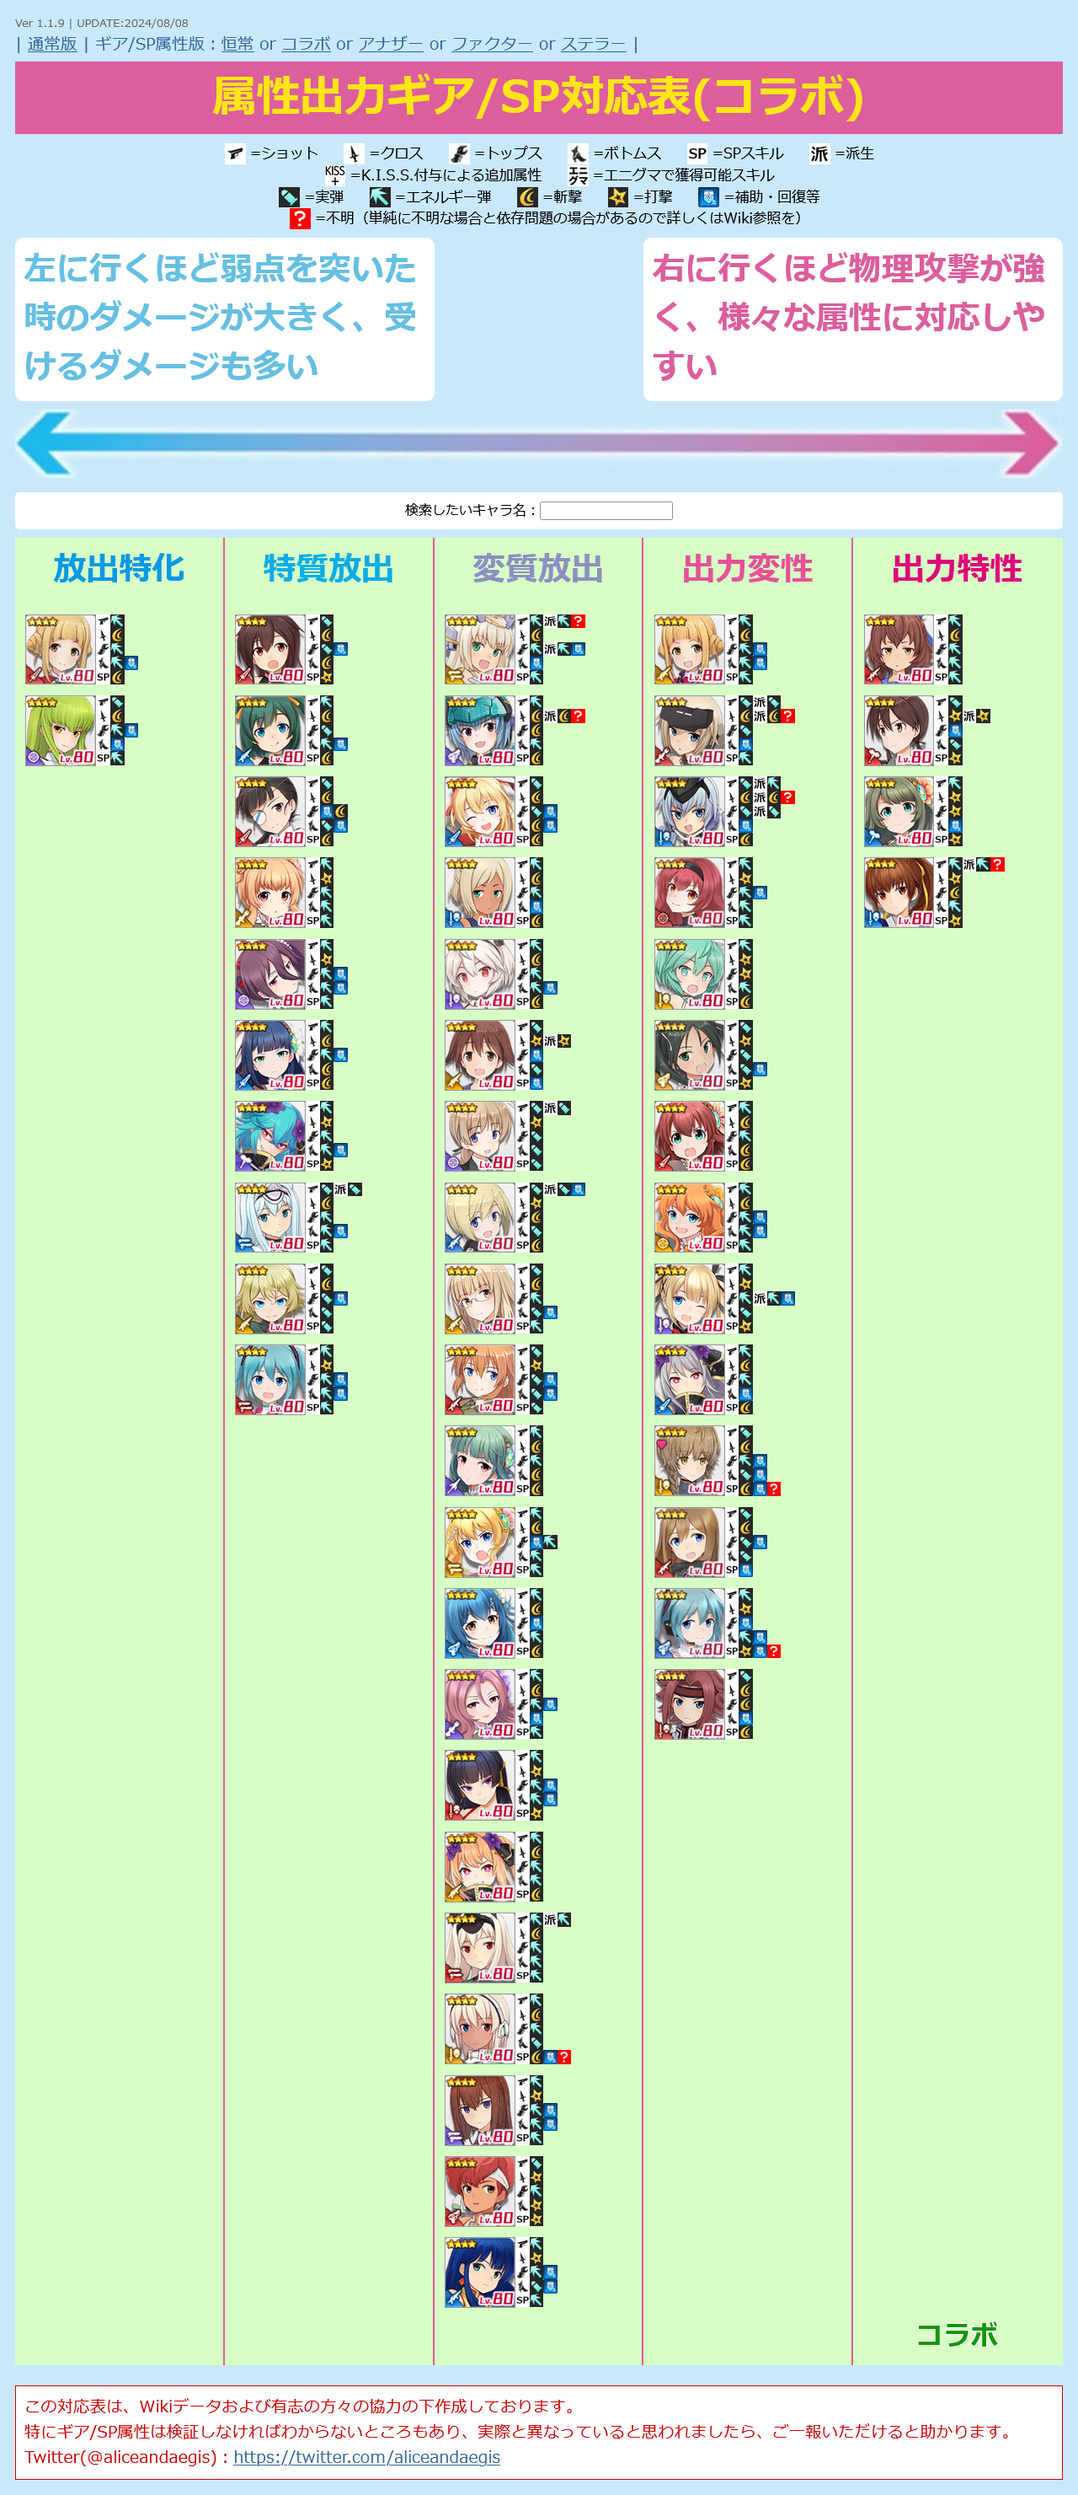
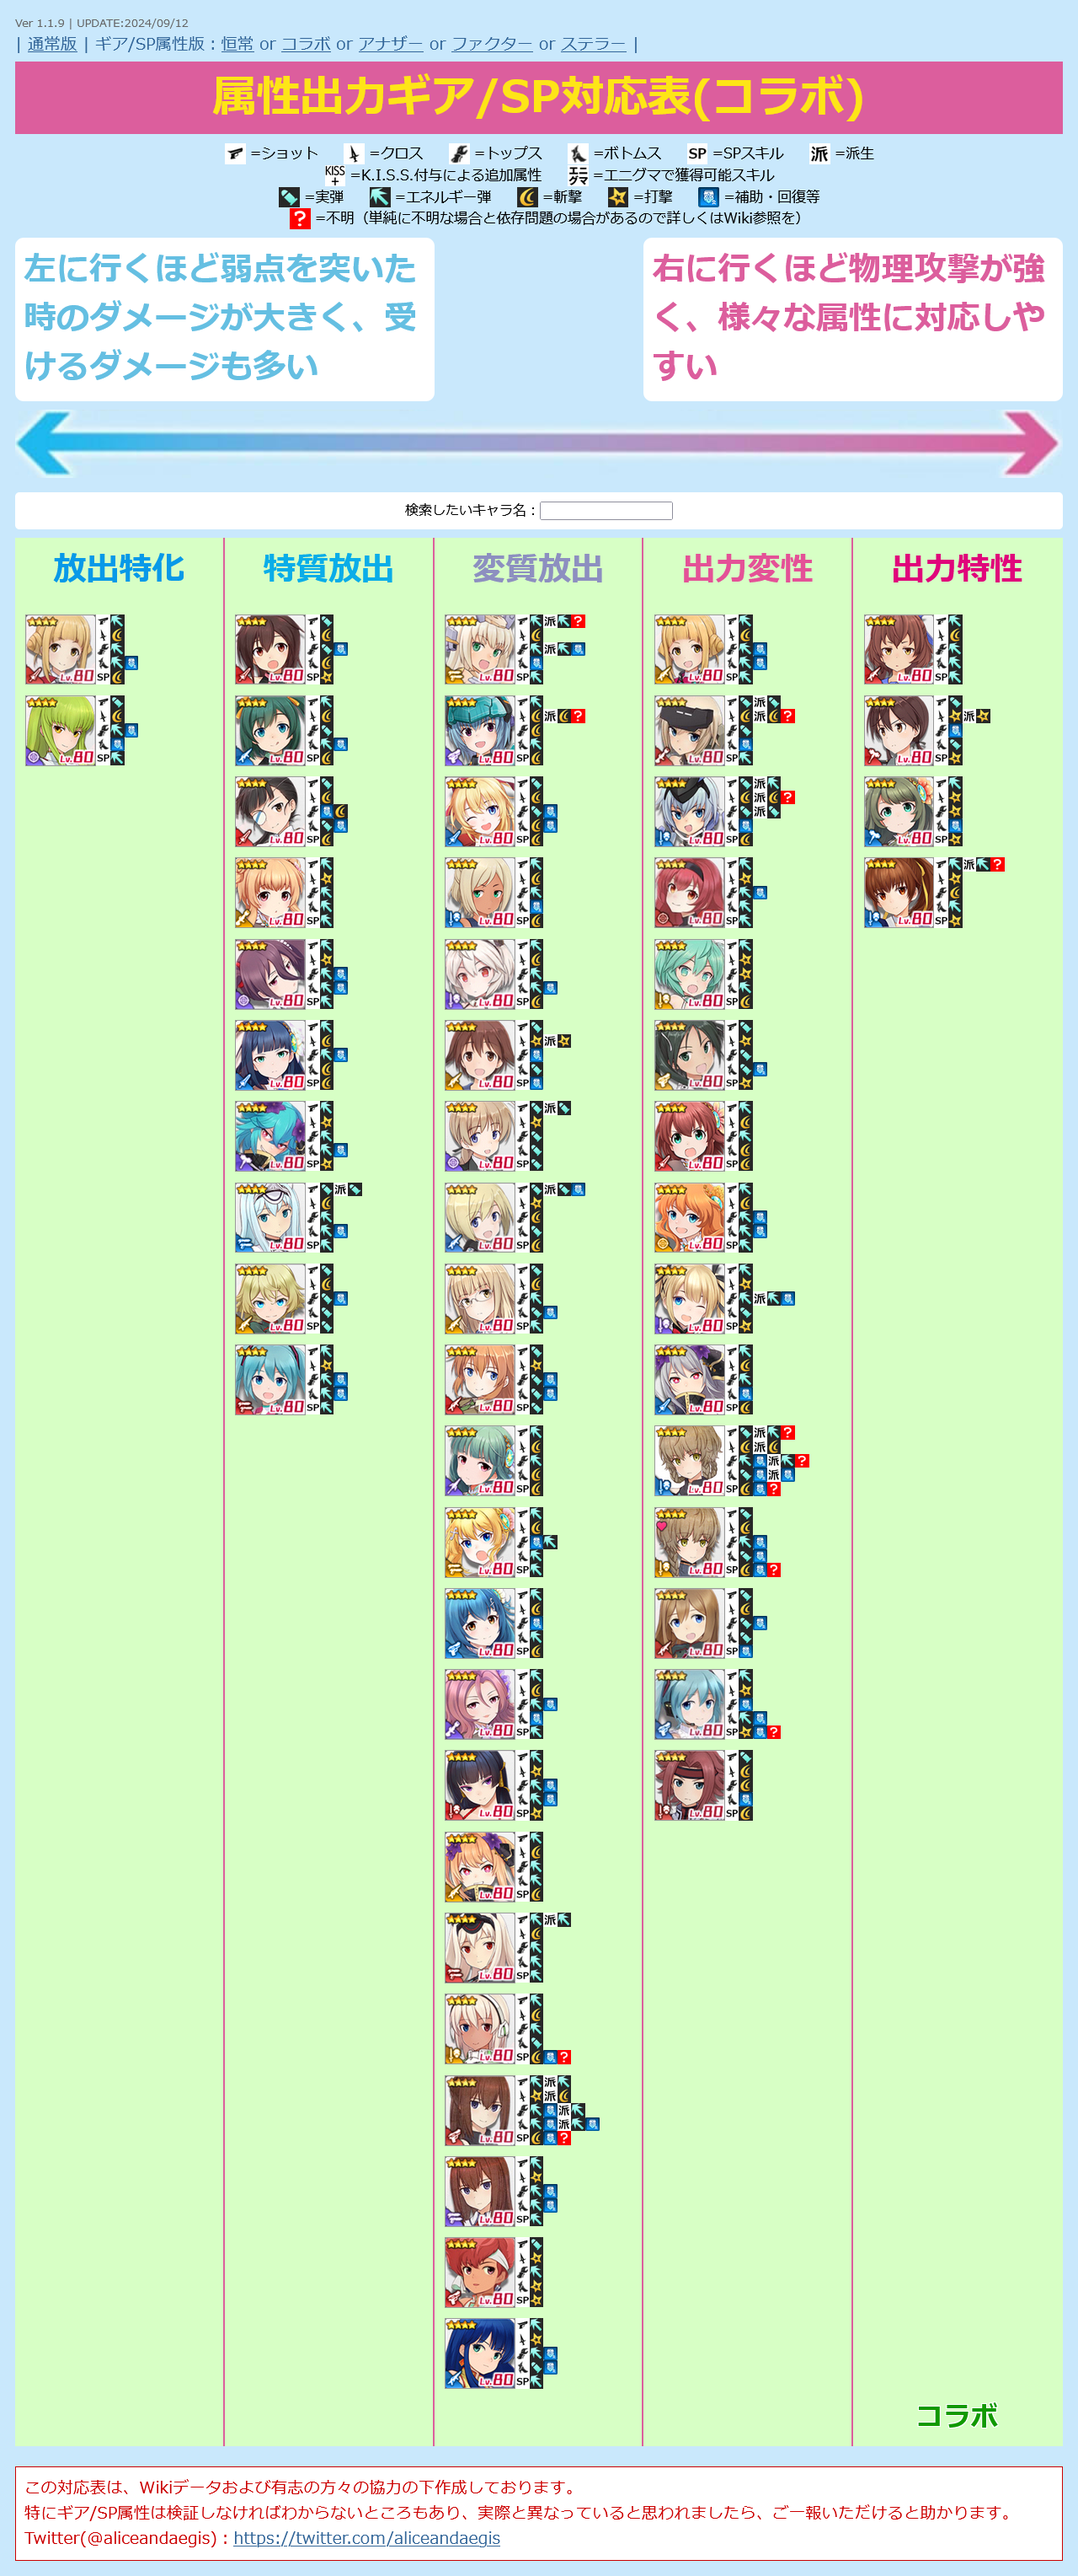
UPDATE charadata
・コラボ 牧瀬 紅莉栖 / 因果を追加
・コラボ 阿万音 鈴羽 / 戦士を追加

Changed region(s): [[0.0, 0.0, 1.0, 0.9946]]

diff --git a/alice.html b/alice.html
@@ -12,7 +12,7 @@
   <script>
 
 /* 更新情報 必要に応じて書き換えてください */
-  var version = "Ver 1.1.9 | UPDATE:2024/08/28";
+  var version = "Ver 1.1.9 | UPDATE:2024/09/12";
 
 
 /*
@@ -2215,9 +2215,9 @@
       "name": "エマ・アシュフィールド",
       "equip1": "2",
       "equip2": "4",
-      "equip3": "25?",
-      "equip4": "25?",
-      "sp": "25?",
+      "equip3": "25",
+      "equip4": "25",
+      "sp": "2",
       "attr": "2",
       "link": "https://wikiwiki.jp/alicegear/%E3%82%A8%E3%83%9E%E3%83%BB%E3%82%A2%E3%82%B7%E3%83%A5%E3%83%95%E3%82%A3%E3%83%BC%E3%83%AB%E3%83%89",
       "category": ""
@@ -2811,6 +2811,21 @@
       "link": "https://wikiwiki.jp/alicegear/%E7%89%A7%E7%80%AC%E7%B4%85%E8%8E%89%E6%A0%96",
       "category": "99"
     },
+
+    {
+      "id": "801",
+      "type": "3",
+      "src": "another-makise.png",
+      "name": "牧瀬 紅莉栖 / 因果",
+      "equip1": "2/2",
+      "equip2": "4/3",
+      "equip3": "25/2",
+      "equip4": "25/25",
+      "sp": "35?",
+      "attr": "3",
+      "link": "https://wikiwiki.jp/alicegear/%E7%89%A7%E7%80%AC%E7%B4%85%E8%8E%89%E6%A0%96%E5%9B%A0%E6%9E%9C",
+      "category": "99"
+    },
     {
       "id": "802",
       "type": "4",
@@ -2823,6 +2838,20 @@
       "sp": "35?",
       "attr": "1",
       "link": "https://wikiwiki.jp/alicegear/%E9%98%BF%E4%B8%87%E9%9F%B3%E9%88%B4%E7%BE%BD",
+      "category": "99"
+    },
+    {
+      "id": "802",
+      "type": "4",
+      "src": "another-suzuha.png",
+      "name": "阿万音 鈴羽 / 戦士",
+      "equip1": "1/2?",
+      "equip2": "3/3",
+      "equip3": "25/2?",
+      "equip4": "15/5",
+      "sp": "35?",
+      "attr": "4",
+      "link": "https://wikiwiki.jp/alicegear/%E9%98%BF%E4%B8%87%E9%9F%B3%E9%88%B4%E7%BE%BD%E6%88%A6%E5%A3%AB",
       "category": "99"
     },
     {
